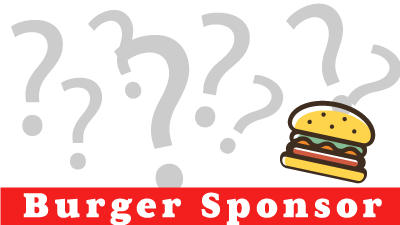
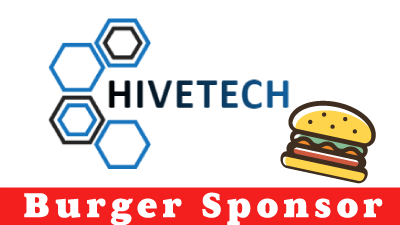
Added HiveTech as burger sponsor

diff --git a/index.html b/index.html
@@ -541,7 +541,7 @@
 				</div>
 				<!-- /sponsor -->
 				<div class="partner-box col-md-3 col-sm-4 col-xs-6" style="float:none; margin: auto; display: inline-block;">
-					<a href="#" class="sponsor" data-toggle="modal" data-target="#sponsor-modal-2">
+					<a href="https://www.hivetech.hr/" class="sponsor">
 						<img src="/img/burger.png" alt="">
 					</a>
 				</div>
@@ -576,33 +576,6 @@
 				<!-- /sponsor modal -->
 				
 
-				<!-- sponsor modal -->
-				<div id="sponsor-modal-2" class="speaker-modal modal fade">
-					<div class="modal-dialog">
-						<div class="modal-content">
-							<button type="button" class="speaker-modal-close" data-dismiss="modal"></button>
-							<div class="modal-body">
-								<div class="row">
-									<div class="col-md-5">
-										<div class="speaker-modal-img">
-											<img src="/img/burger.png" alt="">
-										</div>
-									</div>
-									<div class="col-md-7">
-										<div class="speaker-modal-content">
-											<h2 class="speaker-name">Burger Sponsor</h2>
-
-											<p>Uz raspričana mokra grla potrebno je obnoviti energiju kako bi informacije naučene kroz dan ostale zapečene. Nakon radionice slijedi čašćenje pićem i hranom u pivnici Pivana, a sponzor koji ovo omogući biti će izravno odgovoran za bolji provod, pune želuce, i bistre umovi koji hrabro koračaju u vrli novi blockchain svijet.</p>
-											<p>Ukoliko vi ili vaša tvrtka želite simbolički sponzorirati pune tanjure uz raspričanu večer, javite nam se na <a href="mailto:contact@bitfalls.com">contact@bitfalls.com</a>!</p>
-									
-										</div>
-									</div>
-								</div>
-							</div>
-						</div>
-					</div>
-				</div>
-				<!-- /sponsor modal -->
 			</div>
 			<!-- /row -->
 			<div class="row">
